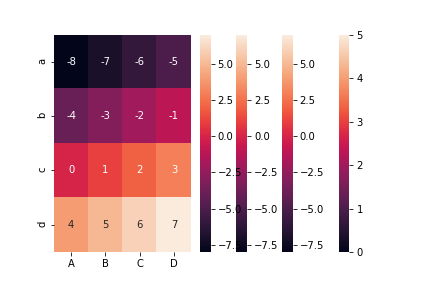
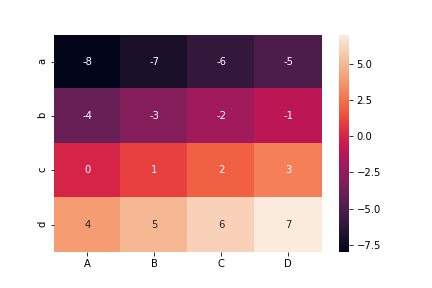
fix to reset plt

diff --git a/notebook/seaborn_heatmap.py b/notebook/seaborn_heatmap.py
@@ -17,6 +17,7 @@ print(arr_2d)
 #  [ 0  1  2  3]
 #  [ 4  5  6  7]]
 
+plt.figure()
 sns.heatmap(arr_2d)
 plt.savefig('data/dst/seaborn_heatmap_ndarray.png')
 
@@ -28,27 +29,35 @@ print(df)
 # c  0  1  2  3
 # d  4  5  6  7
 
+plt.figure()
 sns.heatmap(df)
 plt.savefig('data/dst/seaborn_heatmap_dataframe.png')
 
+plt.figure()
 sns.heatmap(df, annot=True)
 plt.savefig('data/dst/seaborn_heatmap_annot.png')
 
+plt.figure()
 sns.heatmap(df, cbar=False)
 plt.savefig('data/dst/seaborn_heatmap_no_cbar.png')
 
+plt.figure()
 sns.heatmap(df, square=True)
 plt.savefig('data/dst/seaborn_heatmap_square.png')
 
+plt.figure()
 sns.heatmap(df, vmax=10, vmin=-10, center=0)
 plt.savefig('data/dst/seaborn_heatmap_vmax_vmin_center.png')
 
+plt.figure()
 sns.heatmap(df, cmap='hot')
 plt.savefig('data/dst/seaborn_heatmap_hot.png')
 
+plt.figure()
 sns.heatmap(df, cmap='Blues')
 plt.savefig('data/dst/seaborn_heatmap_blues.png')
 
+plt.figure()
 sns.heatmap(df, cmap='Blues_r')
 plt.savefig('data/dst/seaborn_heatmap_blues_r.png')
 
@@ -64,6 +73,7 @@ current_dpi = mpl.rcParams['figure.dpi']
 print(current_dpi)
 # 72.0
 
+plt.figure()
 sns.heatmap(df, square=True)
 plt.savefig('data/dst/seaborn_heatmap_big_2.png', dpi=current_dpi * 2)
 
